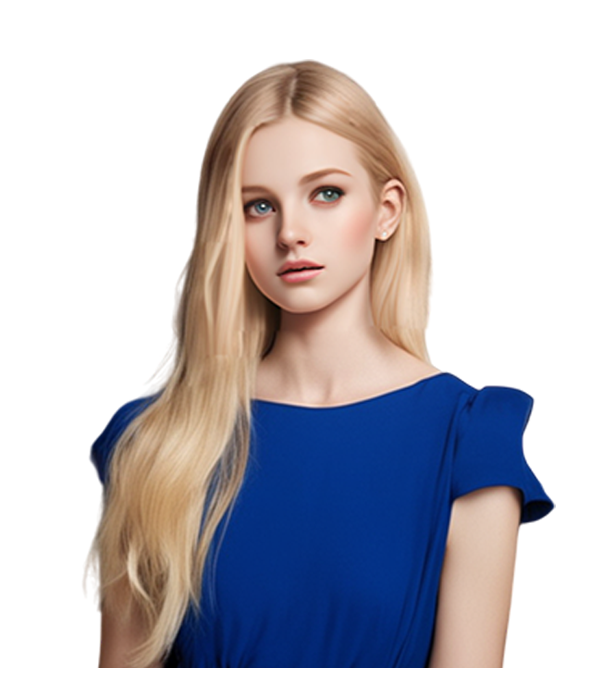
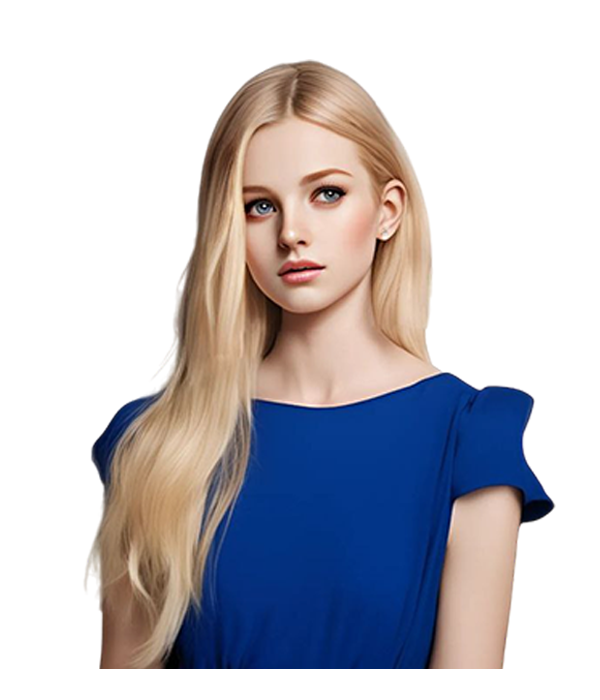
added parallax

diff --git a/src/Stories/Aurora/scenarios/Chapter01/Part03.ts b/src/Stories/Aurora/scenarios/Chapter01/Part03.ts
@@ -434,6 +434,7 @@ scenarioManager.addScenario({ storyName: EStoriesEn.Aurora, chapterName: 'Гла
         text: '',
         goTo: 29
       }],
+    stats: [{ story: EStoriesEn.Aurora, value: 0, category: 'Person', id: 'Dalia' }],
     imageFront: require('../../../../Images/Aurora/Persons/Dalia.png'),
     imageBorder: require('../../../../Images/Aurora/UI/Border.png'),
     imageBack: require('../../../../Images/Aurora/Backgrounds/Bookshelves.jpg')
@@ -575,7 +576,7 @@ scenarioManager.addScenario({ storyName: EStoriesEn.Aurora, chapterName: 'Гла
         text: '',
         goTo: 38
       }],
-    beforeBegin: timer.stop,
+    beforeBegin: () => { timer.stop() },
     imageBack: require('../../../../Images/Aurora/Backgrounds/Bookshelves.jpg')
   },
 
@@ -772,7 +773,7 @@ scenarioManager.addScenario({ storyName: EStoriesEn.Aurora, chapterName: 'Гла
         text: '',
         goTo: 51
       }],
-    beforeBegin: timer.stop,
+    beforeBegin: () => { timer.stop() },
     stats: [{ value: 1, category: 'Choice', id: 'HelpKaleb' }],
     imageBack: require('../../../../Images/Aurora/Backgrounds/Bookshelves.jpg')
   },
@@ -2461,7 +2462,7 @@ scenarioManager.addScenario({ storyName: EStoriesEn.Aurora, chapterName: 'Гла
         condition: () => {
           return statsManager.get({ story: EStoriesEn.Aurora, category: 'Effect', id: 'ChooseArtist' }) >= 1
         },
-        goTo: 161
+        goTo: 160
       },
       {
         condition: () => {
@@ -2819,14 +2820,30 @@ scenarioManager.addScenario({ storyName: EStoriesEn.Aurora, chapterName: 'Гла
     id: 181,
     text:
       `
-        — Мне нравится писать. Небольшие рассказы или стихи. Специального образования у меня нет, но мне помогает отвлечься от всяких плохих мыслей.<p> <p>— Ого, интересное совпадение, — Далия показала пальцем на Калеба. — Ему тоже нравится нечто подобное. 
+        — Мне нравится писать. Небольшие рассказы или стихи. Специального образования у меня нет, но мне помогает отвлечься от всяких плохих мыслей.
+      `,
+    buttons: [
+      {
+        text: '',
+        goTo: 400
+      }],
+    imageFront: () => { return wardrobe.getCurrentClothesImage(EStoriesEn.Aurora, 'Aurora_City') },
+    imageBorder: require('../../../../Images/Aurora/UI/Border.png'),
+    imageBack: require('../../../../Images/Aurora/Backgrounds/Bus_Inside.jpg')
+  },
+
+  {
+    id: 400,
+    text:
+      `
+        — Ого, интересное совпадение, — Далия показала пальцем на Калеба. — Ему тоже нравится нечто подобное. 
       `,
     buttons: [
       {
         text: '',
         goTo: 182
       }],
-    imageFront: () => { return wardrobe.getCurrentClothesImage(EStoriesEn.Aurora, 'Aurora_City') },
+    imageFront: require('../../../../Images/Aurora/Persons/Dalia.png'),
     imageBorder: require('../../../../Images/Aurora/UI/Border.png'),
     imageBack: require('../../../../Images/Aurora/Backgrounds/Bus_Inside.jpg')
   },

diff --git a/ChroniclesEditor.html b/ChroniclesEditor.html
@@ -404,6 +404,10 @@
 			</button>
 			<hr/>
 			<button class="toolbar-category-button" disabled
+							onclick="navigator.clipboard.writeText('    [Параллакс]: \'Лево | Право\',')">
+				<img class="span_icon" src="./src/Images/UI/editor/editor_parallax.svg"/>Параллакс
+			</button>
+			<button class="toolbar-category-button" disabled
 							onclick="navigator.clipboard.writeText('    [Кат-сцена]: { [Видео]: файл(\'../../../../Images/КОД_ИСТОРИИ/CutScenes/НАЗВАНИЕ.mp4\'), [Переход на слайд]: НОМЕР_СЛАЙДА },')">
 				<img class="span_icon" src="./src/Images/UI/editor/editor_cutscene.svg"/>Кат-сцена
 			</button>
@@ -808,6 +812,8 @@ onStart()
       '$AMBIENT$' +
       '$SPEAKER$' +
       '$PICTUREFRONT$' +
+      '$PARALLAXL$' +
+      '$PARALLAXR$' +
       '$CUTSCENE$' +
       '$DARKS$' +
       '$GHOSTS$' +
@@ -878,7 +884,18 @@ onStart()
           value = value.replaceAll('$DARKS$',`darkSilhouette: true,`);
           scenes[name][x].splice(y,1)
           y-=1;
-        } else if (/! Призрак/.test(scenes[name][x][y])) {
+        } else if (/! Параллакс: Лево/.test(scenes[name][x][y])) {
+          scenes[name][x][y] = scenes[name][x][y].replace(/! Параллакс: Лево/, '');
+          value = value.replaceAll('$PARALLAXL$',`\n    parallax: 'left',`);
+          scenes[name][x].splice(y,1)
+          y-=1;
+        } else if (/! Параллакс: Право/.test(scenes[name][x][y])) {
+          scenes[name][x][y] = scenes[name][x][y].replace(/! Параллакс: Право/, '');
+          value = value.replaceAll('$PARALLAXR$',`\n    parallax: 'right',`);
+          scenes[name][x].splice(y,1)
+          y-=1;
+        }
+        else if (/! Призрак/.test(scenes[name][x][y])) {
           scenes[name][x][y] = scenes[name][x][y].replace(/! Призрак/, '');
           value = value.replaceAll('$GHOSTS$',`ghostSilhouette: true,`);
           scenes[name][x].splice(y,1)
@@ -954,6 +971,8 @@ onStart()
       value = value.replaceAll('$PICTUREFRONT$','');
       value = value.replaceAll('$DARKS$','');
       value = value.replaceAll('$GHOSTS$','');
+      value = value.replaceAll('$PARALLAXL$','');
+      value = value.replaceAll('$PARALLAXR$','');
       value = value.replaceAll('\n    stats: [],','');
       value = value.replaceAll('\n    achievement: $ACHIEVEMENT$','');
       value = value.replaceAll('\n    doBeforeBegin: () => {\n      },','');
@@ -1023,6 +1042,9 @@ onStart()
     dictionary.set('imageBack:', '[Фон]:')
     dictionary.set('darkSilhouette:', '[Силуэт]:')
     dictionary.set('ghostSilhouette:', '[Призрак]:')
+    dictionary.set('parallax:', '[Параллакс]:')
+    dictionary.set('\'left\'', '\'Лево\'')
+    dictionary.set('\'right\'', '\'Право\'')
     dictionary.set('achievement:', '[Достижение]:')
     dictionary.set('cutScene:', '[Кат-сцена]:')
     dictionary.set('video:', '[Видео]:')

diff --git a/src/Classes/CScenarioManager.ts b/src/Classes/CScenarioManager.ts
@@ -73,6 +73,7 @@ export default class CScenarioManager {
     if (!this.#doCondition(scene.condition)) {
       this.#doBeforeBegin(scene.beforeBegin)
       this.#changeImages(scene.imageBack, scene.imageLeft, scene.imageMiddle, scene.imageRight, scene.imageFront, scene.imageBorder)
+      this.#doParallax(scene.parallax)
       this.slide.changeText(scene.text)
       this.#setButtons(scene.buttons)
       this.slide.changeSpeaker(scene.speaker)
@@ -128,6 +129,10 @@ export default class CScenarioManager {
     } else {
       this.slide.changeGhostSilhouette(false)
     }
+  }
+
+  #doParallax (side: string | undefined): void {
+    this.slide.parallax(side)
   }
 
   #doStats (stats: IStat[]): void {

diff --git a/src/Classes/CSlide.ts b/src/Classes/CSlide.ts
@@ -115,6 +115,14 @@ export default class CSlide {
     this.slide.message.classList.add('slide__message_show')
   }
 
+  parallax (side: string | undefined): void {
+    console.log(this.slide.backgroundImage)
+    this.slide.backgroundImage.classList.remove('parallaxLeft')
+    this.slide.backgroundImage.classList.remove('parallaxRight')
+    side === 'left' && this.slide.backgroundImage.classList.add('parallaxLeft')
+    side === 'right' && this.slide.backgroundImage.classList.add('parallaxRight')
+  }
+
   changeText (text: string): void {
     this.slide.text.innerText.replace(/\s/g, '').length >= 1 && (this.previousSlideText = this.slide.text.innerHTML)
     this.slide.text.style.display = 'none'

diff --git a/src/Components/Slide/Slide.scss b/src/Components/Slide/Slide.scss
@@ -2,15 +2,18 @@
 
 .slide {
   left: 0;
+  right: 0;
   top: 0;
+  bottom: 0;
   display: none;
   margin: 0 auto;
   height: 100vh;
-  width: 100vw;
+  max-width: 500px;
   justify-items: center;
   overflow: hidden;
   position: absolute;
   grid-template-rows: repeat(3, min-content);
+
   @extend %show;
 }
 
@@ -21,6 +24,7 @@
   height: 100vh;
   margin: 0 auto;
   width: auto;
+  transition: transform .8s ease-in-out;
 }
 
 .slide__backgroundHelper {

diff --git a/src/Types/IScene.ts b/src/Types/IScene.ts
@@ -38,5 +38,6 @@ export default interface IScene {
   speaker?: string
   darkSilhouette?: boolean
   ghostSilhouette?: boolean
+  parallax?: string
   wardrobe?: { story: EStoriesEn, personId: string, goTo: number }
 }

diff --git a/src/Components/Slide/Effects.scss b/src/Components/Slide/Effects.scss
@@ -87,3 +87,11 @@
     visibility: hidden;
   }
 }
+
+.parallaxLeft{
+  transform: translateX(-25%);
+}
+
+.parallaxRight{
+  transform: translateX(25%);
+}
